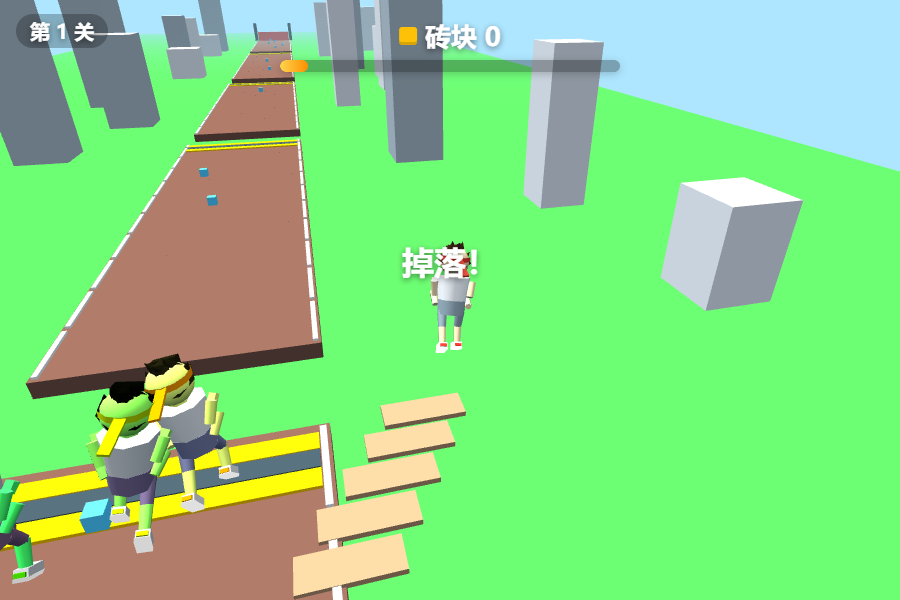
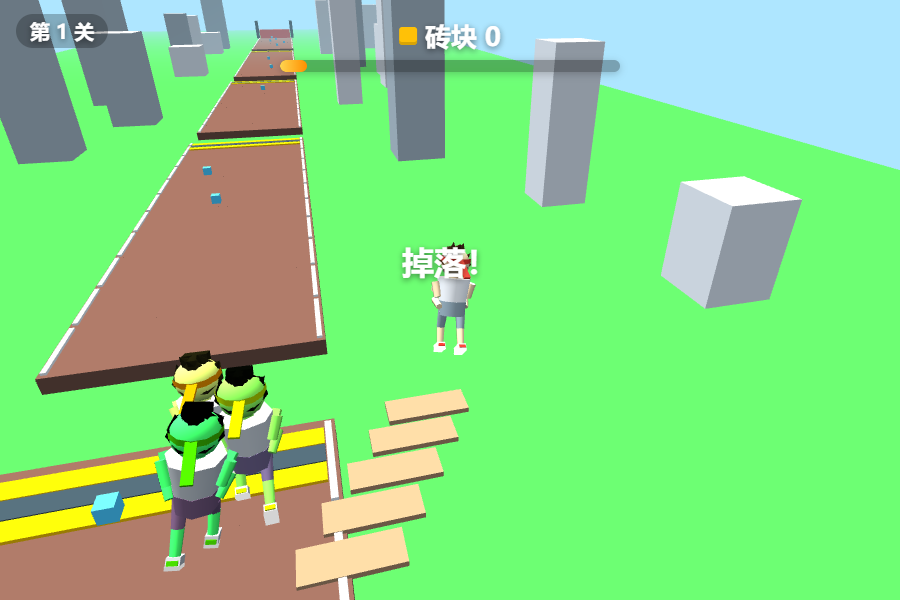
verify-web 稳定化: scene-rendered nonBg上限0.98→0.99(俯视city天空占比临界抖动); animateChar空关节守卫防克隆体偶发丢关节reading rotation崩页; AI对手竞速UI/截图入库; 13项全绿

diff --git a/web-preview/index.html b/web-preview/index.html
@@ -632,6 +632,7 @@ applyTheme(); // 初始配色（须在 MAT/CHAR_MATS/char 都就绪后）
 
 // 动画（移植自母本 animateCharacter）：跑步步态/前倾/转弯侧倾/头带飘动/胜利/落水
 function animateChar(char, runCycle, steerVelocity, carriedPlanks, state, delta) {
+  if (!char || !char.root || !char.torso || !char.head || !char.headbandRibbon || !char.plankMount || !char.leftArm || !char.leftArm.shoulder || !char.leftArm.elbow || !char.rightArm || !char.rightArm.shoulder || !char.rightArm.elbow || !char.leftLeg || !char.leftLeg.hip || !char.leftLeg.knee || !char.leftLeg.foot || !char.rightLeg || !char.rightLeg.hip || !char.rightLeg.knee || !char.rightLeg.foot) return; // Polle clone missing joints
   const lerp = (a, b, t) => a + (b - a) * Math.min(1, Math.max(0, t));
   if (state === 'drowned') {
     char.root.rotation.x = lerp(char.root.rotation.x, Math.PI / 2, delta * 5);
